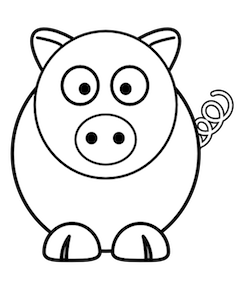
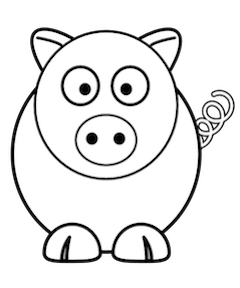
changed images to png instead of jpg; added a fail sound rather than an alert window.

diff --git a/js/main.js b/js/main.js
@@ -21,6 +21,10 @@ var goatAudio = document.createElement('audio');
   goatAudio.setAttribute('src', 'sounds/goatCut.mp3');
   goatAudio.setAttribute('autoplay:false', 'autoplay');
 
+var failAudio = document.createElement('audio');
+  failAudio.setAttribute('src', 'sounds/Fail.mp3');
+  failAudio.setAttribute('autoplay:false', 'autoplay');
+
 var clearBtn = function () {
   $(".gamePiece").css("border", "none");
   $(".gamePiece").css("background-color", "white");
@@ -67,12 +71,12 @@ function delayedPlay(animalNumber, delay) {
 }
 
 $("#reset").on( "click", function() {
-  gameSettings.compSequence = [];
-  gameSettings.playerSequence = [];
-  gameSettings.round = 1;
-  gameSettings.highScore = 0;
-  $("#counter").html(gameSettings.round - 1);
-  $("#roundNum").html(gameSettings.round);
+  this.compSequence = [];
+  this.playerSequence = [];
+  this.round = 1;
+  this.highScore = 0;
+  $("#counter").html(this.round - 1);
+  $("#roundNum").html(this.round);
   $("#play").css("visibility", "visible");
 });
 
@@ -105,9 +109,9 @@ function endGame () {
   gameSettings.compSequence = [];
   gameSettings.playerSequence = [];
   gameSettings.round = 1;
-  window.alert("Not quite right. Click PLAY to try a new sequence.");
+  //window.alert("Not quite right. Click PLAY to try a new sequence.");
+  failAudio.play();
   $("#roundNum").html(gameSettings.round);
-
   $("#play").css("visibility", "visible");
 }
 

diff --git a/index.html b/index.html
@@ -28,10 +28,10 @@
 
     <div class="GameBoard">
       <div class="Cards">
-        <button class="gamePiece" id="cowBtn" type="image"><img id="cow" src="images/cow.jpg"></button>
-        <button class="gamePiece" id="chickenBtn" type="image"><img id="chicken" src="images/chicken.jpg"></button>
-        <button class="gamePiece" id="pigBtn" type="image"><img id="pig" src="images/pig.jpg"></button>
-        <button class="gamePiece" id="goatBtn" type="image"><img id="goat" src="images/goat.jpg"></button>
+        <button class="gamePiece" id="cowBtn" type="image"><img id="cow" src="images/cow.png"></button>
+        <button class="gamePiece" id="chickenBtn" type="image"><img id="chicken" src="images/chicken.png"></button>
+        <button class="gamePiece" id="pigBtn" type="image"><img id="pig" src="images/pig.png"></button>
+        <button class="gamePiece" id="goatBtn" type="image"><img id="goat" src="images/goat.png"></button>
       </div>
     </div>
 
